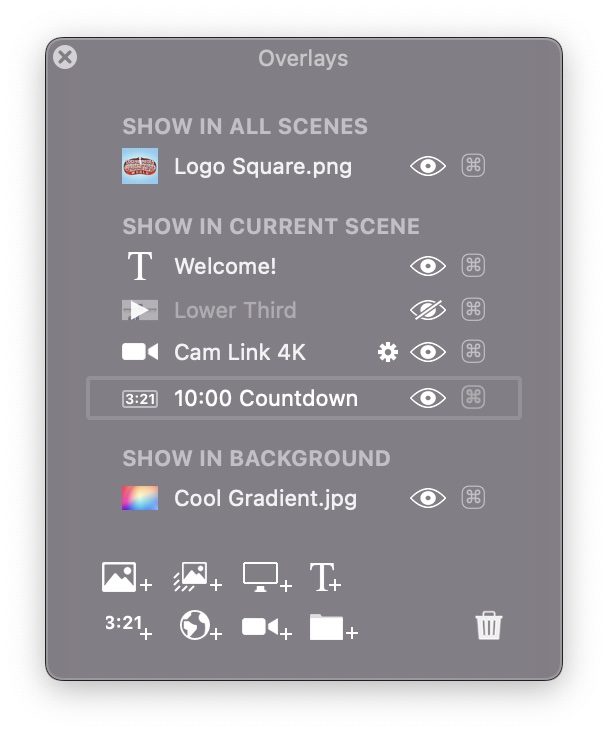
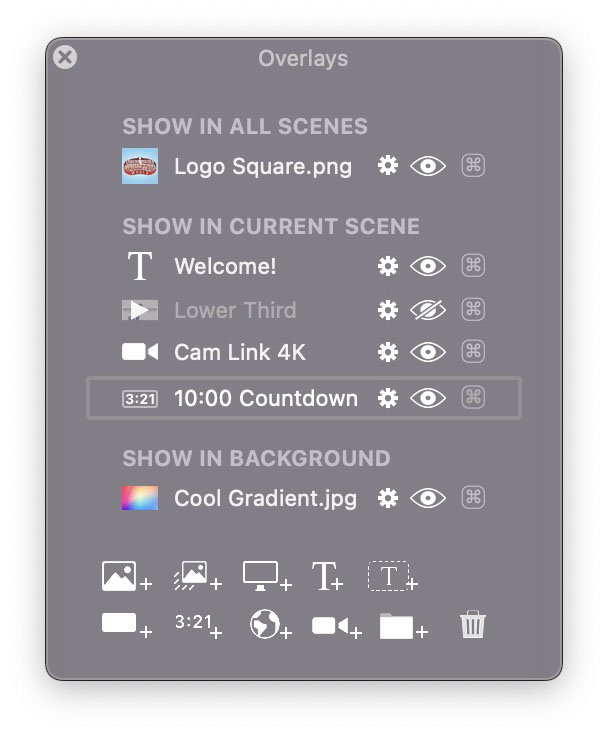
v4.1

diff --git a/docs/_ecamm-live-manual/006-using-overlays.md b/docs/_ecamm-live-manual/006-using-overlays.md
@@ -5,25 +5,33 @@
 
 Overlays are styled text and images in your broadcast. If you don't see the Overlays window, you can show it by clicking the {% inlineicon overlays 45 graybutton %}Overlays Menu Button{% endinlineicon %} in the upper right corner of the Main Window, or show it using Overlays menu at the very top of your display.
 
-There are seven types of Overlays:
+There are eight types of Overlays:
 
 ## Text Overlays
 
-Almost any need for text on the screen can be addressed with Text Overlays. There are four ways to add a Text Overlay:
+Any need for text on the screen can be addressed with Text Overlays. There are two main types of Text Overlays:
 
-* Select <samp>New Text Overlay</samp> in the <samp>Overlays</samp> menu at the top of your display
-* Click the {% inlineicon addtext 20 inverted %}Add Text Overlay Button{% endinlineicon %} button at the bottom the Overlays Window,
-* Type <kbd>⌘</kbd><kbd>N</kbd>.
+#### Dynamic Text Overlays
+
+Dynamic Text Overlays are ideal for quickly adding a short line of text such as a title. The shape of a Dynamic Text Overlay will be determined by the shape of the text contained within it. When a Dynamic Text Overlay is resized, the text's font size will also change.
+
+#### Text Box Overlays
+
+Text Box Overlays are for adding a larger block of text to a broadcast. The shape of a Text Box Overlay is defined by dragging from an edge or corner, and will never change when the text within it changes. The text will always be displayed using the font's point size  and will *not* change when the overlay is resized. If the text doesn't fit inside the overlay's area, it can either shrink to fit within the overlay, or simply be truncated.
+
+There are four ways to add a Text Overlay:
+
+* Select <samp>New Dynamic Text Overlay</samp> or <samp>New Text Box Overlay</samp>  in the <samp>Overlays</samp> menu at the top of your display
+* Click the {% inlineicon addtext 20 inverted %}Add Dynamic Text Overlay Button{% endinlineicon %} or {% inlineicon addtextbox 40 inverted %}Add Text Box Overlay Button{% endinlineicon %} buttons at the bottom the Overlays Window.
+* Type <kbd>⌘</kbd><kbd>N</kbd> or <kbd>⌘</kbd>kbd><kbd>option</kbd><kbd>N</kbd> 
 * Copy text from anywhere on your Mac. <samp>Edit</samp> menu ➝ <samp>Paste as Overlay</samp> will allow you to paste in plain or styled text.
 
-When you create a new Text Overlay, a Text Editing Window will appear. Start typing to enter text. You can hold the <kbd>shift</kbd> key and press the <kbd>return</kbd> key to insert a line break. You can change many properties  including font, font size, and text color. You can apply any of these properties to individual lines or chunks of the text by highlighting them, and selecting your styles.
+When you create a new Text Overlay, a Text Editing Window will appear. Start typing to enter text. You can hold the <kbd>shift</kbd> key and press the <kbd>return</kbd> key to insert a line break. You can change many properties  including font, font size, text color, kerning (the spacing between characters), and line height. You can apply any of these properties to individual lines or chunks of the text by highlighting them, and selecting your styles.
  
 [![Figure\: Text Overlay Editor Window](/assets/img/text-overlay-editor-sheet.jpg "Click for full-size image.")
 ](/assets/img/text-overlay-editor-sheet.jpg)
 
 You can apply a shadow or an outer glow effect to all of the text. To add an emoji, click the 😀 smiling emoji button and select from the menu. 
-
-The background size and shape is set automatically for you, and adjusts to scale with the size of your text. You can change the color, opacity, corner radius, margin, border, and border color of the background.
 
 #### Adding A New Line
 
@@ -33,9 +41,29 @@ Once you click <samp>Add</samp> in the Text Editing Window, your Overlay will ap
 
 #### Editing Text Overlays
 
-To change the text or visual style of the Overlay, place your cursor over the Overlay. Two icons will appear on its left. The {% inlineicon pencil 30 %}Edit Button{% endinlineicon %} brings back the Text Editing Window for adjustments. A double-click on the Overlay will also bring back the Text Editing Window.
+To change the text of the Overlay, click the <samp>Edit Text...</samp> button at the top of the Overlay's settings popover.
 
-To change the width of a text Overlay without changing the font size, place your cursor over the right edge of the Overlay. Once the cursor switches to a left-right arrow, drag left or right to adjust the width. Once you've adjusted the width, the width will remain fixed. To return to an automatically-sized width, double-click the right edge area.
+To change the width of a Dynamic Text Overlay without changing the font size, place your cursor over the right edge of the Overlay. Once the cursor switches to a left-right arrow, drag left or right to adjust the width. Once you've adjusted the width, the width will remain fixed. To return to an automatically-sized width, double-click the right edge area.
+
+#### Changing The Text Box Style
+
+The <samp>Style</samp> menu in the Overlay's settings popover can be used to change a Text Overlay's style between Dynamic Text, Text Box (Shrink), Text Box (Truncate), and Scrolling Ticker.
+
+#### Text Background Options
+
+Use the <samp>Background</samp> menu in Overlay's settings popover to pick a background. A background can be a solid color, linear gradient, motion gradient, or a [visual effect](#visual-effects) such as a blur.
+
+#### Text Margin Size
+
+Use the <samp>Text Margin</samp> slider in the Overlay's settings popover to determine how much space there is around the edges of the text.
+
+#### Cutout Text
+
+The <samp>Cutout Text</samp> option can be found in the <samp>More Options</samp> section of the Overlay's settings popover. Cutout Text mode will create a text-shaped cut out in the Overlay's background color, allowing the scene's background to show through.
+
+![Figure\: An example of cutout text.](/assets/img/fire.jpg "Fire"){: width="286px"}
+
+An example of cutout text.
 
 ## Scrolling Tickers
 
@@ -86,6 +114,10 @@ To pause or play an animated overlay, place your cursor in the middle of the Ove
 
 By default, animated overlays will start playing from the beginning. If you'd prefer the animation start from where you left off previously, choose <samp>Start From Last Location</samp> from the player bar's menu.
 
+#### Green Screen and Blue Screen Blend Modes
+
+Image Overlays and Animated Overlays offer a Green Screen and Blue Screen keying option in the <samp>Blend Mode</samp> menu in the Overlay's settings popover. (Find this in the <samp>More Options</samp> section.) Use this to add transparency to images and videos that have a green or blue background. Once picked, a <samp>Fade Level</samp> slider will show up, which can be used to adjust the keying threshold.
+
 ## Comment Overlays
 
 If you’re broadcasting with Facebook Live, YouTube Live, Amazon Live, Restream, or Twitch, and you receive a comment, you can drag that comment from the [Comments and Reactions Window](../012-streaming/#comments-and-reactions) into the Main Window. Ecamm will automatically convert your comment into a styled text Overlay, matching the style of your most recent Comment Overlay. If you want two different Comment Overlays to appear on screen at once, drag a second comment to the Main Window.
@@ -94,7 +126,15 @@ You can also click the tiny <samp>Add To Broadcast</samp> button below each comm
 
 #### Editing Comment Overlays
 
-The text in a comment Overlay can be edited and styled just like a [Text Overlay](#editing-text-overlays). (Double-click the overlay in the Main Window.) Once a Comment Overlay is styled, future comments remember this styling. Note that a separate style can be applied to the comment author.
+The text in a comment Overlay can be edited and styled just like a [Text Overlay](#editing-text-overlays). (Double-click the overlay in the Main Window and then click <samp>Edit Text...</samp>.) Once a Comment Overlay is styled, future comments remember this styling. A separate style can be applied to the comment author.
+
+#### Positioning and Style Comment Overlays in Advance
+
+Comment Overlays will use the position, size, and style of previous Comment Overlays. To set up the appearance of Comment Overlays in your Scene, pick <samp>Add Placeholder Comment Overlay</samp> from the <samp>Overlays</samp> menu or press <kbd>⌘</kbd><kbd>option</kbd><kbd>K</kbd>. A placeholder Comment Overlay will appear, which can be styled and positioned as desired. Once you have finished, it can be deleted. Subsequent comments will use this position, size and style.
+
+#### Adjust Comment Overlay Avatar Size
+
+Comment Overlays include an avatar image of the viewer. Adjust the maximum size of the avatar using the slider control above the avatar. The setting will apply to all Comment Overlays in the Scene.
 
 #### Showing The Most Recent Comment as an Overlay
 
@@ -118,7 +158,9 @@ There are 3 ways to add a Countdown Overlay:
 * Click the{% inlineicon addcountdown 70 inverted %}Add Countdown Button{% endinlineicon %} button at the bottom the [Overlays Window](#managing-your-overlays).
 * Type <kbd>shift</kbd><kbd>option</kbd><kbd>⌘</kbd><kbd>C</kbd> while in the Main Window.
 
-A Text Editing Window appears, providing all of the same visual styling options as with a Text Overlay. Pick a countdown type, such as countdown, clock, or stopwatch. You can edit the End Time and text alignment. Press <samp>Save</samp> to display your timer within the Main Window.
+A Text Editing Window appears, providing all of the same visual styling options as with a Text Overlay. Pick a countdown type, such as countdown, clock, or stopwatch. You can edit the End Time and text alignment. Press <samp>Add</samp> to display your timer within the Main Window.
+
+To edit an existing countdown's settings, click the <samp>Edit Countdown...</samp> button at the top of the Overlay's settings popover.
 
 #### Auto-Start Option
 
@@ -128,6 +170,29 @@ When using a countdown type other than <samp>Clock</samp>, you will see an <samp
 
 When using a countdown, you will see a <samp>Go To Next Scene When Finished</samp> checkbox.  Select this to automatically transition to the next Scene in the Scenes window when the countdown reaches zero.
 
+## Shape Overlays
+
+Use shape overlays to add a rectangle, square, circle, or squircle shape to your show. The shape can be a solid color, a linear gradient, a motion gradient, or a visual effect such as a blur, mosaic, or distortion.
+
+There are two ways to add a Shape Overlay:
+
+* Select a shape from the <samp>New Shape Overlay</samp> sub-menu in the <samp>Overlays</samp> menu at the top of your display.
+* Click the{% inlineicon addshape 70 inverted %}Add Shape Overlay{% endinlineicon %} button at the bottom the [Overlays Window](#managing-your-overlays).
+
+#### Visual Effects
+
+Shape overlays can be used to apply a visual effect to the broadcast. Visual effects can also be used as the background of [Text Overlays](#text-overlays). Pick an effect in the <samp>Fill</samp> menu in the Overlay's settings popover. (For Text Overlays, use the <samp>Background</samp> menu.)
+
+* **Blur:** Apply a gaussian blur.
+* **Zoom:** Apply a zoom blur.
+* **Motion:** Apply a motion blur.
+* **Pixelate:** Apply a square mosaic pattern.
+* **Hex:** Apply a hexagonal mosaic pattern.
+* **Comic:** Apply a comic book effect.
+* **Twirl:** Apply a twirl distortion.
+* **Pinch:** Apply a pinch distortion.
+* **Bump:** Apply a bump distortion.
+ 
 ## Camera Overlays
 
 If you need to quickly position a camera feed on the screen to create a custom layout or picture-in-picture, use a Camera Overlay. 
@@ -142,15 +207,7 @@ A Camera Overlay will show up in the center of the Main Window.
 
 #### Editing Camera Overlays
 
-There are three ways to access the settings for a Camera Overlay:
-
-* Double-click the Overlay in the Main Window.
-* Click the pencil button next to the Overlay in the Main Window.
-* Click the tiny {% inlineicon preferences 20 inverted %}Preferences Button{% endinlineicon %} icon beside the {% inlineicon visible 20 inverted %}Visible Button{% endinlineicon %} icon in the [Overlays Window](#managing-your-overlays).
-
-A popover window with camera source and shape options will appear. If you need a shape that isn't listed in the shape menu, pick <samp>Custom</samp> from the list of shapes. Then adjust the shape by dragging the Overlay from any corner. 
-
-Corner radius, and border options are also offered in the popover window. Note that a newly created Camera Overlay will automatically inherit the last used corner radius and border options. 
+In the Camera Overlay's settings popover, a camera source and shape options will appear. If you need a shape that isn't listed in the shape menu, pick <samp>Custom</samp> from the list of shapes. Then adjust the shape by dragging the Overlay from any corner. 
 
 ## Screenshare Overlays
 
@@ -166,15 +223,7 @@ A Screenshare Overlay will show up in the center of the Main Window.
 
 #### Editing Screenshare Overlays
 
-There are three ways to access the settings for a Screenshare Overlay:
-
-* Double-click the Overlay in the Main Window.
-* Click the pencil button next to the Overlay in the Main Window.
-* Click the gear button in the Overlays window. 
-
-A popover window with screenshare source and shape options will appear. If you need a shape that isn't listed in the shape menu, pick <samp>Custom</samp> from the list of shapes. Then adjust the shape by dragging the Overlay from any corner.  
-
-Corner radius, and border options are also offered in the popover window. Note that a newly created Screenshare Overlay will automatically inherit the last used corner radius and border options. 
+In the Screenshare Overlay's settings popover, screenshare source and shape options will appear. If you need a shape that isn't listed in the shape menu, pick <samp>Custom</samp> from the list of shapes. Then adjust the shape by dragging the Overlay from any corner.  
 
 #### Activate System Audio Capture
 
@@ -198,32 +247,57 @@ There are 5 ways you can add a Widget Overlay:
 
 Clicking the {% inlineicon addwidget 25 inverted %}Add Widget Button{% endinlineicon %} button or selecting <samp>New Widget Overlay</samp> in the <samp>Overlays</samp> menu will bring up a sheet to enter a URL and several options:
 
-* Display Name: Enter a name for the widget. This is used for display purposes only, to identify the Overlay later.
+* **Display Name:** Enter a name for the widget. This is used for display purposes only, to identify the Overlay later.
 
-* Width and Height: Indicate a width and height for the widget. This will determine the scale of the widget.
+* **Width and Height:** Indicate a width and height for the widget. This will determine the scale of the widget.
 
-* Frame Rate: By default, the widget's contents will update 30 times per second. You may wish to decrease it for performance reasons.
+* **Frame Rate:** By default, the widget's contents will update 30 times per second. You may wish to decrease it for performance reasons.
 
-* High-Resolution Mode: Activate high resolution mode for more fine detail in your widget. This is good for showing websites, but may result in slower updating for widgets that include animations.
+* **High-Resolution Mode:** Activate high resolution mode for more fine detail in your widget. This is good for showing websites, but may result in slower updating for widgets that include animations.
 
-* Fill Entire Frame: This checkbox will make the widget fill the entire broadcast area. When using this option, the overlay cannot be resized or moved around like a normal overlay.
+* **Fill Entire Frame:** This checkbox will make the widget fill the entire broadcast area. When using this option, the overlay cannot be resized or moved around like a normal overlay.
 
-* Keep Running: This checkbox will keep the widget running even after hiding the Overlay or leaving the Overlay's Scene. This is helpful for Overlays that shouldn't be reloaded or that take a while to load up. However setting this should be used judiciously as once loaded, the widget will remain running in the background until the Ecamm Live app quits.
+* **Keep Running:** This checkbox will keep the widget running even after hiding the Overlay or leaving the Overlay's Scene. This is helpful for Overlays that shouldn't be reloaded or that take a while to load up. However setting this should be used judiciously as once loaded, the widget will remain running in the background until the Ecamm Live app quits.
 
 
 ![Figure\: Widget Editor](/assets/img/widgets.png "Widget Overlay Editor")
 
 #### Editing Widget Overlays
 
-To return to the widget's setting, place your cursor over the Overlay. Two icons will appear on its left. The {% inlineicon pencil 30 %}Edit Button{% endinlineicon %} brings back the widget settings sheet. A double-click on the Overlay will also bring back the settings.
-
-Alternatively, click the tiny {% inlineicon preferences 20 inverted %}Preferences Button{% endinlineicon %} icon beside the {% inlineicon visible 20 inverted %}Visible Button{% endinlineicon %} icon in the [Overlays Window](#managing-your-overlays).
+To return to the widget's setting, click the <samp>Edit Widget...</samp> button at the top of the overlay's settings popover.
 
 #### Interacting With Widget Overlays
 
 By default, widgets are not interactive, for example you won't be able to scroll a website or click a link. To turn on interactivity, use the switch at the bottom of the widget. (See below.)
 
 ![Figure\: Widget Editor](/assets/img/interactive.jpg "Widget interaction controls")
+
+## The Overlay Settings Popover
+
+Clicking the {% inlineicon pencil 30 %}pencil{% endinlineicon %} icon beside an overlay or the tiny {% inlineicon preferences 20 inverted %}gear{% endinlineicon %} icon in the Overlays Window will bring up a popover window containing various settings for each Overlay. Double-clicking an Overlay will also bring up the popover.
+
+![Figure\: Overlay Popover](/assets/img/popover.jpg "Overlay Popover")
+
+Many settings have already been mentioned above. Several are common to all Overlay types:
+
+* **Border:** Choose no border, a solid color, linear gradient, or moving linear gradient.
+
+* **Border Width:** Adjust the border width for the Overlay.
+
+* **Corner Radius:** Use this option to add rounded corners to any Overlay. The corner controls can be used to round only certain corners.
+
+* **Opacity:** Make the Overlay transparent.
+
+* **Rotation:** Adjust the rotation angle of the Overlay.
+
+* **Blend Mode:** Blend modes can be used to create artistic scenes.
+
+* **Transition:** Overlays can slide or spin onto the screen from the left, right, top, or bottom. 
+
+* **Shadow:** Add a drop shadow with a customizable color, angle, distance, and blur level.
+
+**Hint:** Fine-tuning adjustments can be applied to slider controls by pressing the arrow keys on your keyboard while the mouse arrow is over a slider.
+{:.notice--info}
 
 ## Hiding, Positioning, Resizing
 
@@ -249,24 +323,27 @@ To adjust the Overlay’s size, drag from any corner or edge.  You may also use 
 ![Spread to enlarge](/assets/img/spread-zoom.png){: height="100px" width="100px"}
 —Spread to enlarge
 
-#### Fly-In Overlays
+#### Rotating Using the Rotate Gesture
 
-Overlays can slide onto the screen from the left, right, top, or bottom. 
+If your Mac has a trackpad, Overlays can be rotated using a gesture. Using two fingers on the trackpad, perform a twisting motion.
 
-For Text Overlays, Pick <samp>Fly In</samp> from the <samp>Style</samp> menu at the top of the text editing window to turn on Fly In mode. 
+#### Adjusting Overlay Opacity Using the Scroll Gesture
 
-For other Overlay types, click the pencil button next to the Overlay in the Main Window, and you'll see a Fly-In menu.
-
-
-#### Adjusting Overlay Opacity
-
-To adjust an overlay's transparency, use the scroll gesture (slide two fingers on a trackpad) while holding down the <kbd>shift</kbd> key.
+To quickly adjust an overlay's transparency, use the scroll gesture (slide two fingers on a trackpad) while holding down the <kbd>shift</kbd> key.
 
 #### Cropping Overlays
 
-With the exception of Text Overlays, Overlays can be cropped from any edge. Crop by holding down the <kbd>option</kbd> key on your keyboard while dragging any edge of an Overlay. (The key may be labeled <kbd>alt</kbd> on some keyboards.)
+With the exception of Text and Shape Overlays, Overlays can be cropped from any edge. Crop by holding down the <kbd>option</kbd> key on your keyboard while dragging any edge of an Overlay. (The key may be labeled <kbd>alt</kbd> on some keyboards.)
 
 To reset the crop, right-click or <kbd>control</kbd>-click the Overlay and pick <samp>Reset Crop</samp>.
+
+#### Copying Overlay Styles
+
+To copy an Overlay's style to another Overlay, click on an Overlay, and pick <samp>Copy</samp> from the <samp>Edit</samp> menu. Or, right-click or <kbd>control</kbd>-click on an overlay and choose <samp>Copy</samp>.
+
+Then click on the Overlay that you'd like to change.  Pick <samp>Paste Overlay Settings</samp> from the <samp>Edit</samp> menu. Or, right-click on the Overlay and pick <samp>Paste Settings</samp>.
+
+For Text Overlays, you'll also see an option to <samp>Paste Text Style</samp>.
 
 ## Managing Your Overlays
 
@@ -280,7 +357,7 @@ You can show or hide a given Overlay by clicking its {% inlineicon visible 20 in
 
 If you need to further organize, you can create folders to group Overlays. Click the {% inlineicon addgroup 50 inverted %}Add Group Button{% endinlineicon %} icon to create a new folder. Drag Overlays onto the folders to organize. Folders can be hidden or shown just like individual Overlays using the {% inlineicon visible 20 inverted %}Visible Button{% endinlineicon %} icon.
 
-### Overlays Window Sections
+#### Overlays Window Sections
 
 The Overlays Window has three sections:
 

diff --git a/docs/_ecamm-live-manual/001-welcome.md b/docs/_ecamm-live-manual/001-welcome.md
@@ -14,7 +14,7 @@ Why would you choose to use a Mac app to live stream, when you can stream straig
 * Schedule Facebook, YouTube Live or LinkedIn Live broadcasts.
 * **Conduct live video interviews** with up to 10 remote guests. (Up to 4 guests on Intel-based Macs.)
 * **Record individual audio and video tracks** to your Mac.
-* **Add text, scrolling tickers, images, countdowns, PDFs and animations to your broadcast as overlays**, on-the-fly, or build them ahead of time.
+* **Add text, scrolling tickers, images, shapes, countdowns, web pages, PDFs and animations to your broadcast as overlays**, on-the-fly, or build them ahead of time.
 * When broadcasting to Facebook Live, YouTube Live, Amazon Live, Restream, and Twitch **view a live feed of your comments and reactions.** 
 * Send your production into other Mac apps via Ecamm's **Virtual Camera** and **Virtual Mic**.
 * **Add viewer comments to your broadcast.** Simply drag them onto the window and they appear automatically as overlays.

diff --git a/docs/_ecamm-live-manual/012-streaming.md b/docs/_ecamm-live-manual/012-streaming.md
@@ -41,6 +41,10 @@ During a broadcast, if there are comments, you'll see a {% inlineicon comment 20
 
 Comments can be marked as a favorite by clicking the comment's {% inlineicon star 15 inverted %}star{% endinlineicon %} button. Favorite comments will show up in the Favorites section. Click the button again to remove the comment from the Favorites section.
 
+#### YouTube Super Chats
+
+When a YouTube Super Chat or Super Sticker arrives, it will automatically be marked as a favorite. It will also be added to a Super Chats tab in the Comments & Reactions window. (The Super Chats tab will only show up once a Super Chat arrives.)
+
 #### Banning Viewers
 
 When broadcasting to YouTube or Twitch, viewers can be banned by clicking the tiny <samp>Ban</samp> button below their comment.

diff --git a/docs/_ecamm-live-manual/018-other-options.md b/docs/_ecamm-live-manual/018-other-options.md
@@ -301,6 +301,10 @@ Assign a shortcut to run when a recording or broadcast finishes. For example, de
 
 Assign a shortcut to run when Ecamm Live quits.
 
+#### Super Chat Arrives
+
+Assign a shortcut to run when a YouTube Super Chat arrives during a stream.
+
 ### Remote Control
 
 Tools such as [Elgato Stream Deck](https://amzn.to/34puWA9) and [Loupedeck](https://loupedeck.com/us/products/loupedeck-live/), and third-party apps such as [ELMC](https://elmc.app) and [Beat Sheet](https://squares.tv/posts/beat-sheet-for-mac) can control Ecamm Live. Configure which apps have control using the checkboxes. (Entries will show up here automatically as permission is requested.)
